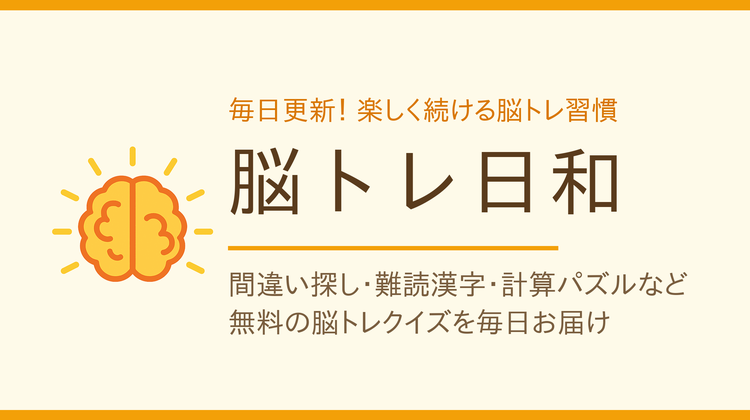
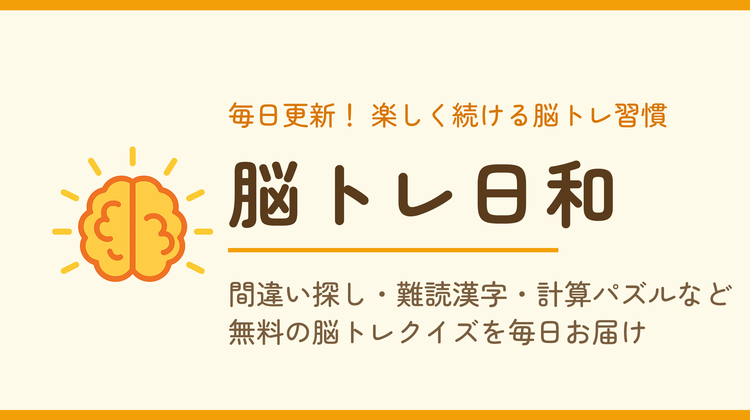
style(gunosy): バナーと横長ロゴの書体を Zen Maru Gothic（丸ゴシック）に変更 (#578)
static/logo.svg が font-family の第一候補に指定しているブランドフォントに揃えた。

- static/gunosy-channel-banner.png（750×420px / チャンネル誘導バナー）
- static/logo-wide.png（192×44px / gnf:wide_image_link）

サイズ・配色は変更なし。横長ロゴは Gunosy への初回登録時にしか読まれない要素のため、
連絡前の今のうちに差し替えている。フォントは SIL OFL 1.1。

diff --git a/docs/gunosy-feed.md b/docs/gunosy-feed.md
@@ -174,8 +174,14 @@ auサービスToday にはこの機能がない。
 | メディア概要   | 間違い探し・難読漢字・計算パズルなど／無料の脳トレクイズを毎日お届け |
 
 差し替える場合は同じサイズ（750×420px、PNG または JPG）で `static/` のファイルを置き換え、
-改めて media@gunosy.com へ送る。ブランドカラーは背景 `#fefae9`／アクセント `#f3a008`／
-文字 `#5a3b1c`。
+改めて media@gunosy.com へ送る。
+
+**書体・配色**（`static/logo-wide.png` も同じ）:
+
+- フォント: **Zen Maru Gothic**（丸ゴシック / SIL OFL 1.1）。
+  `static/logo.svg` が `font-family` の第一候補に指定しているブランドフォントに揃えている。
+  npm の `@fontsource/zen-maru-gothic` から取得できる
+- 配色: 背景 `#fefae9`／アクセント `#f3a008`／文字 `#5a3b1c`
 
 ## Gunosy 側への連絡が必要なタイミング
 
